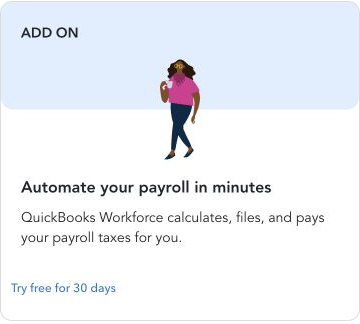
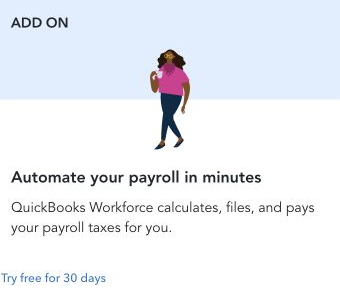
Trim exposed corners from promotional clippings

diff --git a/index.html b/index.html
@@ -34,7 +34,7 @@
 <link rel="stylesheet" href="style.css">
 <link rel="stylesheet" href="articles.css">
 <link rel="stylesheet" href="home.css">
-<link rel="stylesheet" href="comparisons.css?v=2">
+<link rel="stylesheet" href="comparisons.css?v=3">
 <script defer src="comparisons.js?v=2"></script>
 <link rel="canonical" href="https://getparedo.app/">
 </head>
@@ -58,9 +58,9 @@
 <div class="paredo-examples" id="comparisons">
 <div class="noise-controls" hidden data-noise-controls><p id="noise-status" aria-live="polite">01 / 03 · Lending pitches</p><div class="noise-arrows"><button type="button" id="noise-prev" aria-label="Previous example">←</button><button type="button" id="noise-next" aria-label="Next example">→</button></div></div>
 <div class="noise-track" id="noise-track" tabindex="0" role="region" aria-label="Examples of clutter Paredo can hide. Swipe or use the arrow keys to browse.">
-<figure class="noise-slide" data-title="Lending pitches"><div class="noise-image"><img src="assets/comparisons/lending-detail.png" width="360" height="324" alt="QuickBooks Home lending card offering a term loan and a line of credit. Limits are illustrative." loading="lazy"></div><figcaption><p class="eyebrow">Lending pitches</p><h3>Your dashboard.<br>Without the funding pitch.</h3><p>A lending card takes up space with loan and credit offers. Paredo can tuck it away.</p><p class="noise-choice">Hidden with Paredo. Reveal it whenever you need it.</p></figcaption></figure>
-<figure class="noise-slide" data-title="Payroll upsells"><div class="noise-image"><img src="assets/comparisons/payroll-detail.png" width="360" height="324" alt="QuickBooks Home add-on card advertising payroll with a Try free for 30 days action." loading="lazy"></div><figcaption><p class="eyebrow">Payroll upsells</p><h3>Keep your books.<br>Skip the sales pitch.</h3><p>The Suggestions for you section can include offers for additional services, like this payroll add-on.</p><p class="noise-choice">Hidden with Paredo. Reveal the suggestions section whenever you need it.</p></figcaption></figure>
-<figure class="noise-slide" data-title="Suggestions"><div class="noise-image"><img src="assets/comparisons/suggestion-detail.png" width="360" height="324" alt="QuickBooks Home suggestion card with a product video, Add products. See where you stand headline, and See how action." loading="lazy"></div><figcaption><p class="eyebrow">Suggestions</p><h3>A tip when you want it.<br>Room when you don’t.</h3><p>Product tips and recommendations can wait while you focus on your bookkeeping.</p><p class="noise-choice">Hidden with Paredo. Reveal the suggestions section whenever you need it.</p></figcaption></figure>
+<figure class="noise-slide" data-title="Lending pitches"><div class="noise-image"><img src="assets/comparisons/lending-detail.png?v=2" width="340" height="304" alt="QuickBooks Home lending card offering a term loan and a line of credit. Limits are illustrative." loading="lazy"></div><figcaption><p class="eyebrow">Lending pitches</p><h3>Your dashboard.<br>Without the funding pitch.</h3><p>A lending card takes up space with loan and credit offers. Paredo can tuck it away.</p><p class="noise-choice">Hidden with Paredo. Reveal it whenever you need it.</p></figcaption></figure>
+<figure class="noise-slide" data-title="Payroll upsells"><div class="noise-image"><img src="assets/comparisons/payroll-detail.png?v=2" width="340" height="304" alt="QuickBooks Home add-on card advertising payroll with a Try free for 30 days action." loading="lazy"></div><figcaption><p class="eyebrow">Payroll upsells</p><h3>Keep your books.<br>Skip the sales pitch.</h3><p>The Suggestions for you section can include offers for additional services, like this payroll add-on.</p><p class="noise-choice">Hidden with Paredo. Reveal the suggestions section whenever you need it.</p></figcaption></figure>
+<figure class="noise-slide" data-title="Suggestions"><div class="noise-image"><img src="assets/comparisons/suggestion-detail.png?v=2" width="340" height="304" alt="QuickBooks Home suggestion card with a product video, Add products. See where you stand headline, and See how action." loading="lazy"></div><figcaption><p class="eyebrow">Suggestions</p><h3>A tip when you want it.<br>Room when you don’t.</h3><p>Product tips and recommendations can wait while you focus on your bookkeeping.</p><p class="noise-choice">Hidden with Paredo. Reveal the suggestions section whenever you need it.</p></figcaption></figure>
 </div>
 <div class="noise-selectors" role="group" aria-label="Choose an example" hidden data-noise-controls><button type="button" data-example="0" aria-pressed="true">Lending</button><button type="button" data-example="1" aria-pressed="false">Payroll</button><button type="button" data-example="2" aria-pressed="false">Suggestions</button></div>
 <p class="noise-note">Cropped from real QuickBooks Home captures with Paredo off. Lending limits are illustrative. Coverage varies by interface; important warnings remain available.</p>

diff --git a/comparisons.css b/comparisons.css
@@ -8,7 +8,7 @@
 .noise-track{display:flex;overflow-x:auto;scroll-snap-type:x mandatory;border:1px solid var(--line);border-radius:12px;background:var(--white);overscroll-behavior-x:contain}
 .homepage .noise-slide{flex:0 0 100%;width:100%;min-width:0;scroll-snap-align:start;scroll-snap-stop:always;margin:0;padding:40px;display:grid;grid-template-columns:minmax(0,1fr) minmax(0,1fr);gap:48px;align-items:center}
 .noise-image{min-width:0;padding:24px;background:#eef1e9;border-radius:8px;display:flex;align-items:center;justify-content:center}
-.homepage .noise-image img{width:100%;max-width:360px;height:auto;border:0;border-radius:0;display:block}
+.homepage .noise-image img{width:100%;max-width:340px;height:auto;border:0;border-radius:0;display:block}
 .homepage .noise-slide figcaption{margin:0;min-width:0;max-width:440px;font-size:16px;line-height:24px}
 .noise-slide h3{font-size:30px;line-height:36px;font-weight:500;letter-spacing:-1px;margin:16px 0}
 .noise-slide figcaption>p:not(.eyebrow){color:var(--muted)}

diff --git a/README.md b/README.md
@@ -75,3 +75,5 @@ Owner found the off/on comparison unconvincing and requested examples of removed
 The carousel uses native horizontal scrolling and scroll snap for touch/no-script operation, plus explicit previous/next and example buttons and keyboard Left/Right controls. Scroll updates are batched through requestAnimationFrame; viewport resizing retains the selected slide. No autoplay, sound, off/on toggle, new tracking, or extension changes. The website’s unrelated uncommitted analytics edits remain untouched in the owner’s checkout.
 
 Validation: JavaScript syntax, whitespace, and 194 local asset/link/fragment checks across ten HTML pages passed. Browser review at 1280px and 375px showed no page overflow; arrows, example buttons, keyboard navigation, horizontal scrolling, and resize alignment worked. Cropped assets were visually inspected and retain no image metadata. Physical-device touch gestures were not separately tested.
+
+October 30 follow-up: trimmed another 10px from each edge of all three close-ups to remove the captured outer card borders/corners. Text and actions remain intact; image dimensions and cache revisions updated. Crops visually inspected, local link/asset checks and git diff --check passed.
